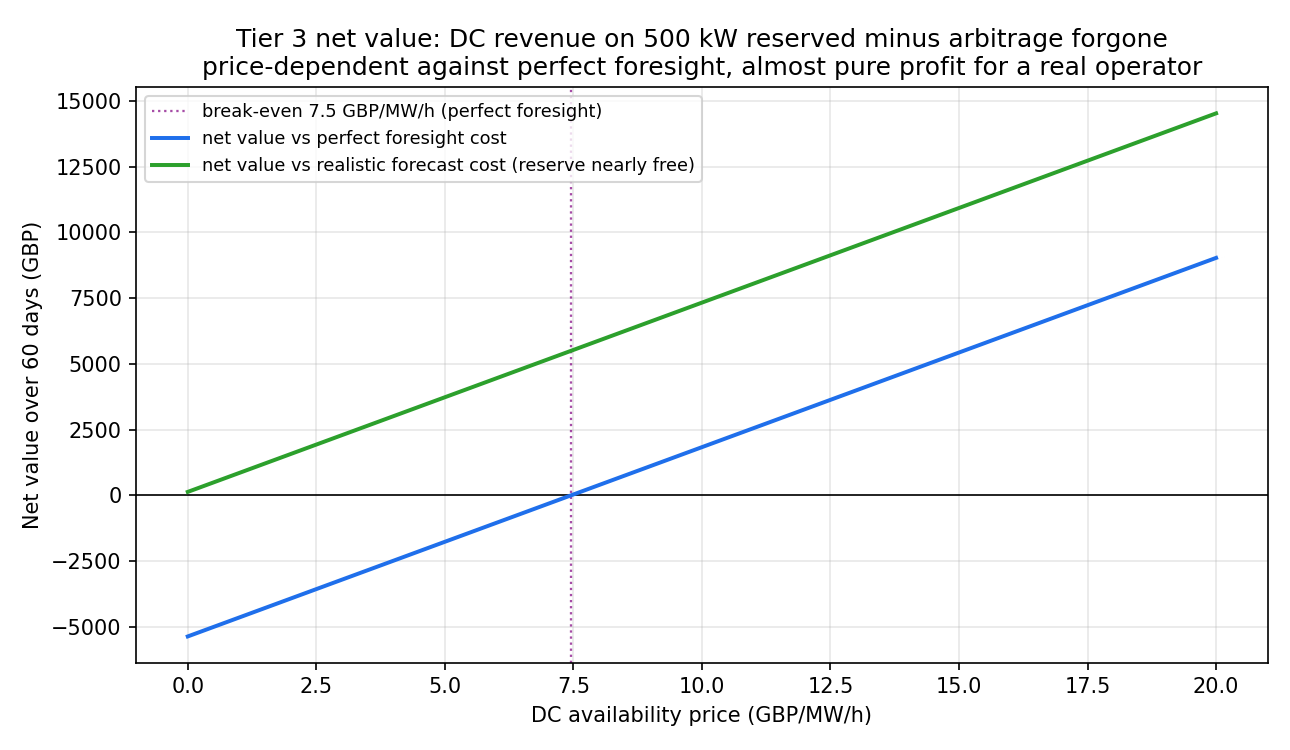
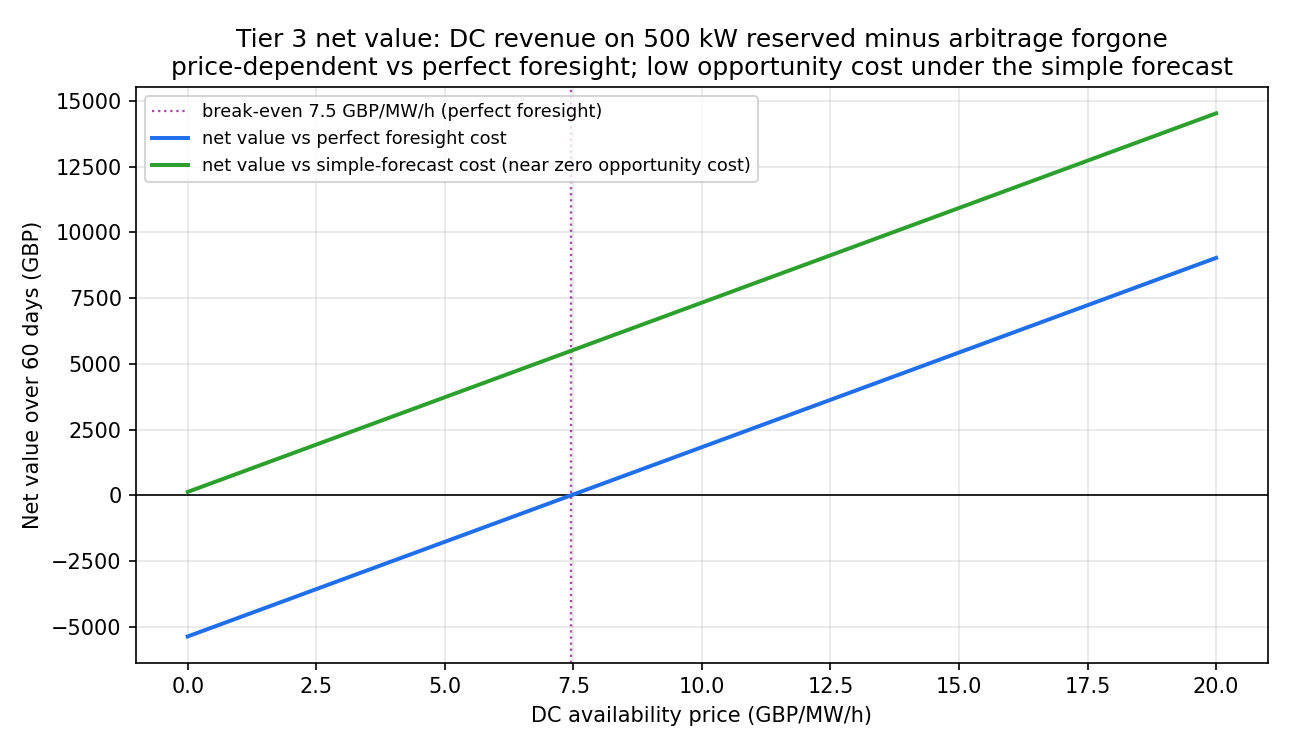
Tidy net value docs and run order

Changed region(s): [[0.124, 0.0613, 0.9612, 0.1533], [0.2481, 0.2147, 0.5891, 0.2453]]

diff --git a/make_tier3_value.py b/make_tier3_value.py
@@ -1,4 +1,5 @@
 # Net value: DC availability revenue on the reserved 500 kW against the arbitrage it costs.
+# 500 kW is below the 1 MW minimum DC offer, so treat it as part of an aggregated fleet.
 import os
 
 import numpy as np
@@ -56,11 +57,11 @@ ax.axvline(breakeven, ls=":", color="purple", lw=1.1, alpha=0.7,
            label=f"break-even {breakeven:.1f} GBP/MW/h (perfect foresight)")
 ax.plot(prices, net_perfect, lw=1.9, color="#1f6feb", label="net value vs perfect foresight cost")
 ax.plot(prices, net_realistic, lw=1.9, color="#2ca02c",
-        label="net value vs realistic forecast cost (reserve nearly free)")
+        label="net value vs simple-forecast cost (near zero opportunity cost)")
 ax.set_xlabel("DC availability price (GBP/MW/h)")
 ax.set_ylabel("Net value over 60 days (GBP)")
 ax.set_title("Tier 3 net value: DC revenue on 500 kW reserved minus arbitrage forgone\n"
-             "price-dependent against perfect foresight, almost pure profit for a real operator")
+             "price-dependent vs perfect foresight; low opportunity cost under the simple forecast")
 ax.legend(loc="upper left", fontsize=8.5)
 ax.grid(alpha=0.3)
 fig.tight_layout()
@@ -68,7 +69,7 @@ fig.savefig(os.path.join(PLOTS, "tier3_value.png"), dpi=150)
 plt.close(fig)
 
 print(f"arbitrage forgone reserving 500 kW, perfect foresight: GBP {cost_perfect:,.0f}")
-print(f"arbitrage forgone, realistic forecast:                 GBP {cost_realistic:,.0f} (nearly free)")
+print(f"arbitrage forgone, simple forecast:                    GBP {cost_realistic:,.0f} (near zero opportunity cost)")
 print(f"break-even DC price vs perfect foresight:              {breakeven:.2f} GBP/MW/h")
 for P in (5, 10, 15):
     print(f"  DC {P:2d} GBP/MW/h -> revenue GBP {RESERVE_MW * P * HOURS:6,.0f}, "

diff --git a/DECISIONS.md b/DECISIONS.md
@@ -1,0 +1,48 @@
+# Key modelling decisions
+
+The headline simplifications behind this project, in one place. Each is a deliberate
+assumption with its reason. The rule throughout: state the assumption plainly, because an
+honest simplification is worth more than a model that pretends at detail its inputs cannot
+support. Per-tier detail lives in `docs/decisions.md` (Tier 1), `docs/tier2.md` (Tier 2),
+and `docs/tier3.md` (Tier 3).
+
+## Single-area grid, no network
+I model the system as one bus: a single swing equation for system frequency, with one
+lumped machine per fuel type. There are no transmission lines, no bus voltages, no
+inter-area flows. The brief's questions are system-frequency questions: how deep the nadir
+goes, how fast frequency falls, how long restoration takes. A single-area model answers
+those honestly. A full network model would add buses and line flows that do not change the
+frequency story on a single connected system, while implying a spatial accuracy the inputs
+do not justify. The cost is real and stated: no inter-area oscillations, no locational
+effects. See `docs/decisions.md`.
+
+## Hourly market resolution
+Arbitrage is solved on the hourly day-ahead price series the challenge provides. I do not
+synthesise sub-hourly prices or model within-hour balancing. The data is hourly, so hourly
+is the resolution the inputs actually support. Faster markets (imbalance, sub-hourly
+dispatch) are real revenue, but inventing a finer time grid would be fabricating signal that
+is not in the data. The forecast-error sweep in Tier 2 shows how much the result depends on
+price quality, which is the honest way to flag this. See `docs/tier2.md`.
+
+## First-order fleet response, not a full inverter model
+The battery fleet supports frequency two ways: synthetic droop (inject power proportional to
+the frequency drop, capped at the reserve) and synthetic inertia (an added effective inertia
+term that slows the initial RoCoF). Both enter the swing equation as clean terms. Those two
+terms capture what a battery actually does to system frequency: lift the nadir and slow the
+fall. A full power-electronics model would add converter dynamics and a df/dt filter that
+shift the numbers slightly but not the story. I label it a first-order approximation and note
+that a real inverter must filter a noisy df/dt measurement. See `docs/tier3.md`.
+
+## Provided price series, used as given
+I treat the supplied hourly price series as the market rather than sourcing live data, for
+reproducibility: anyone cloning the repo runs the same numbers. The point of the work is the
+method (rolling MPC, reserve frontier, the coupling), not a claim about any particular
+trading day. Forecast quality, which a live series would also need, is studied separately
+through the same-hour-average forecast and the noise sweep. See `docs/tier2.md`.
+
+## Perfect foresight is a yardstick, not a strategy
+Where I use perfect foresight (the arbitrage upper bound, the reserve frontier), it is a
+ceiling to measure against, never a claim of operational performance. The realistic rolling
+MPC is the strategy; perfect foresight only tells me how much room is left between it and the
+best possible. Reporting both is what makes the forecast-cost number mean something. See
+`docs/tier2.md` and `docs/tier3.md`.

diff --git a/README.md b/README.md
@@ -29,6 +29,7 @@ through a reserve, a physical fleet response, and a supervisor.
 | `plots/` | before and after figures |
 | `tests/` | unit tests |
 | `docs/` | design notes |
+| `DECISIONS.md` | the headline modelling trade-offs, in one place |
 
 ## Frequency model provenance
 
@@ -57,9 +58,11 @@ default 60 s artifact ends at 49.99999 Hz. See
 Tier 2 is complete. A 24-hour rolling MPC with perfect within-window prices nearly matches
 the full perfect foresight LP, within about 0.1%, which checks the rolling-horizon
 implementation on this dataset. With simple realistic forecasts profit falls to 19 to 24% of perfect
-foresight, which quantifies the value destroyed by price uncertainty. See
-`plots/tier2_decomposition.png`, `plots/tier2_forecast_value.png`, `results/tier2_mpc.csv`,
-and `docs/tier2.md`.
+foresight, which quantifies the value destroyed by price uncertainty. A terminal-value
+ablation confirms the end-of-window guardrail is near-neutral on this dataset, within 0.5%
+across the 24, 12, and 6 hour windows, so I keep it as a standard safeguard rather than a
+profit driver. See `plots/tier2_decomposition.png`, `plots/tier2_forecast_value.png`,
+`results/tier2_mpc.csv`, `results/tier2_terminal_ablation.csv`, and `docs/tier2.md`.
 
 In Tier 3 Stage 1 I ran a reserve study. Sweeping reserved upward response from 0 to 1000 kW
 traces the profit against availability frontier, where reserving 500 kW for 30 minutes
@@ -85,23 +88,30 @@ beyond reserved power (`plots/tier3_speed.png`), and sweeping reserve and speed 
 the nadir surface, where you need both (`plots/tier3_surface.png`).
 
 I also priced whether it pays: a net-value run compares the DC revenue on the reserved
-capacity against the arbitrage it costs (`plots/tier3_value.png`), giving a break-even of
-about GBP 7.5/MW/h against perfect foresight and near pure profit for a real operator.
+capacity against the arbitrage it costs (`plots/tier3_value.png`), giving a break-even of about
+GBP 7.5/MW/h against perfect foresight and a low opportunity cost under the simple forecast. The
+500 kW stands for part of an aggregated fleet, since DC offers are at least 1 MW.
 
 Regenerate the results:
 
-```
-python make_tier1_figures.py
-python make_tier1_validation.py
-python make_tier2_figures.py
-python make_tier3_pareto.py
-python make_tier3_sensitivity.py
-python make_tier3_stage2_sweep.py
-python make_tier3_stage3.py
-python make_tier3_overfreq.py
-python make_tier3_speed.py
-python make_tier3_surface.py
-python make_tier3_value.py
+```bash
+# Tier 1
+python make_tier1_figures.py      # before and after recovery plot
+python make_tier1_validation.py   # robustness sweep across trip sizes
+
+# Tier 2
+python make_tier2_figures.py      # MPC against perfect foresight, plus the forecast-error value
+python make_tier2_ablation.py     # terminal-value ablation, the honest null result
+
+# Tier 3
+python make_tier3_pareto.py       # reserve vs arbitrage frontier (perfect foresight)
+python make_tier3_sensitivity.py  # the same frontier under a realistic forecast
+python make_tier3_value.py        # DC break-even, the punchline (uses the sensitivity csv above)
+python make_tier3_stage2_sweep.py # what the reserve buys inside the frequency model
+python make_tier3_stage3.py       # the supervisor event timeline
+python make_tier3_overfreq.py     # symmetric over-frequency containment
+python make_tier3_speed.py        # response speed as a second axis
+python make_tier3_surface.py      # nadir over reserve by speed
 ```
 
 Run the tests:

diff --git a/docs/tier3.md b/docs/tier3.md
@@ -200,9 +200,11 @@ GBP 5,369 of perfect-foresight arbitrage over the 60 days, while that same 500 k
 NESO's Dynamic Containment earns the DC availability price times the 1440 hours, so the
 break-even DC price is about GBP 7.5/MW/h (`make_tier3_value.py`, `plots/tier3_value.png`). DC
 has cleared roughly GBP 5 to GBP 15/MW/h in its busy years and lower since the market
-saturated, so against perfect foresight this is a price-dependent call. The sensitivity result
-sharpens it: under a realistic forecast the reserve is nearly free (about -GBP 130 here), so
-the DC revenue is almost pure profit and providing response is worth it across essentially the
-whole historical range. Caveat: this assumes the capacity wins DC availability for the whole
-period; DC is auction cleared in 4-hour EFA blocks, so the figure is an illustrative upper
-bound, not guaranteed income.
+saturated, so against perfect foresight this is a price-dependent call. Under the simple
+realistic forecast the modelled opportunity cost of the reserve is near zero (about -GBP 130,
+the reserve barely changes realistic profit), so in this comparison the DC revenue dominates
+the modelled opportunity cost. Caveats: 500 kW is below the 1 MW minimum DC offer, so it stands
+for part of an aggregated fleet or an illustrative scaling, not a standalone bid; and DC is
+auction cleared in 4-hour EFA blocks with eligibility, bidding, clearing, metering,
+state-of-charge, and performance rules, so this is an upper bound on the modelled opportunity
+cost, not realisable income.